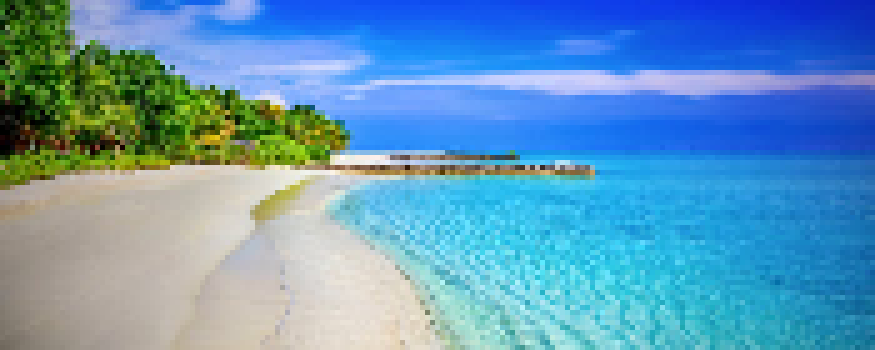
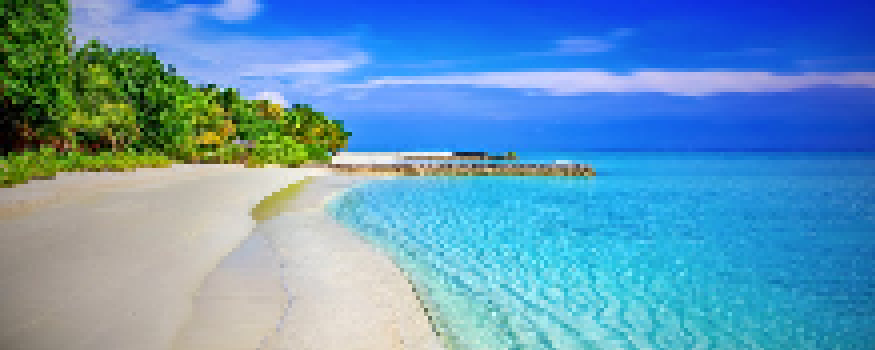
User can now choose how pixelated they want image
Added in a i/o so the user can pick a number to indicate how pixelated
they want the image to become. The lower the number the less pixelated
it will become

diff --git a/src/pixelate.rs b/src/pixelate.rs
@@ -1,16 +1,23 @@
 extern crate image;
 use image::{Rgba, ImageBuffer, GenericImage};
 use imagestruct;
+use std::io;
 
 //Pixelate image
-//Grabs every 10x10 pixels and forms them together to pixelate the image.
+//Grabs every nthxnth pixels and forms them together to pixelate the image.
 pub fn pixelate(img_struct:&imagestruct::MainImage) -> ImageBuffer<Rgba<u8>, Vec<u8>>
 {
 	let width = img_struct.width;
 	let height = img_struct.height;
 
-    //Size of the new pixels after pixelation
-    let big_pix = 10;
+    //Ask user for the size of the new pixels after pixelation
+    let mut size = String::new();
+    println!("Please pick a pixelation value from 1 to 5. The higher the number the more pixelated the image will become");
+    io::stdin().read_line(&mut size).expect("Value entered in incorrectly");
+    size.pop();
+
+    let mut big_pix = size.parse::<u32>().unwrap(); 
+    big_pix = big_pix*2;
 	let mut pixelated_img = ImageBuffer::new(width,height);
 
 
@@ -40,3 +47,4 @@ pub fn pixelate(img_struct:&imagestruct::MainImage) -> ImageBuffer<Rgba<u8>, Vec
 //user to input the dimensions of where they want to pixelate it.
 //(Will ask for a starting x y position and how long in the x and y direction they want to go
 //0,0      500 500. this will start at position 0 and go 500 pixels in the x and y directipons
+
